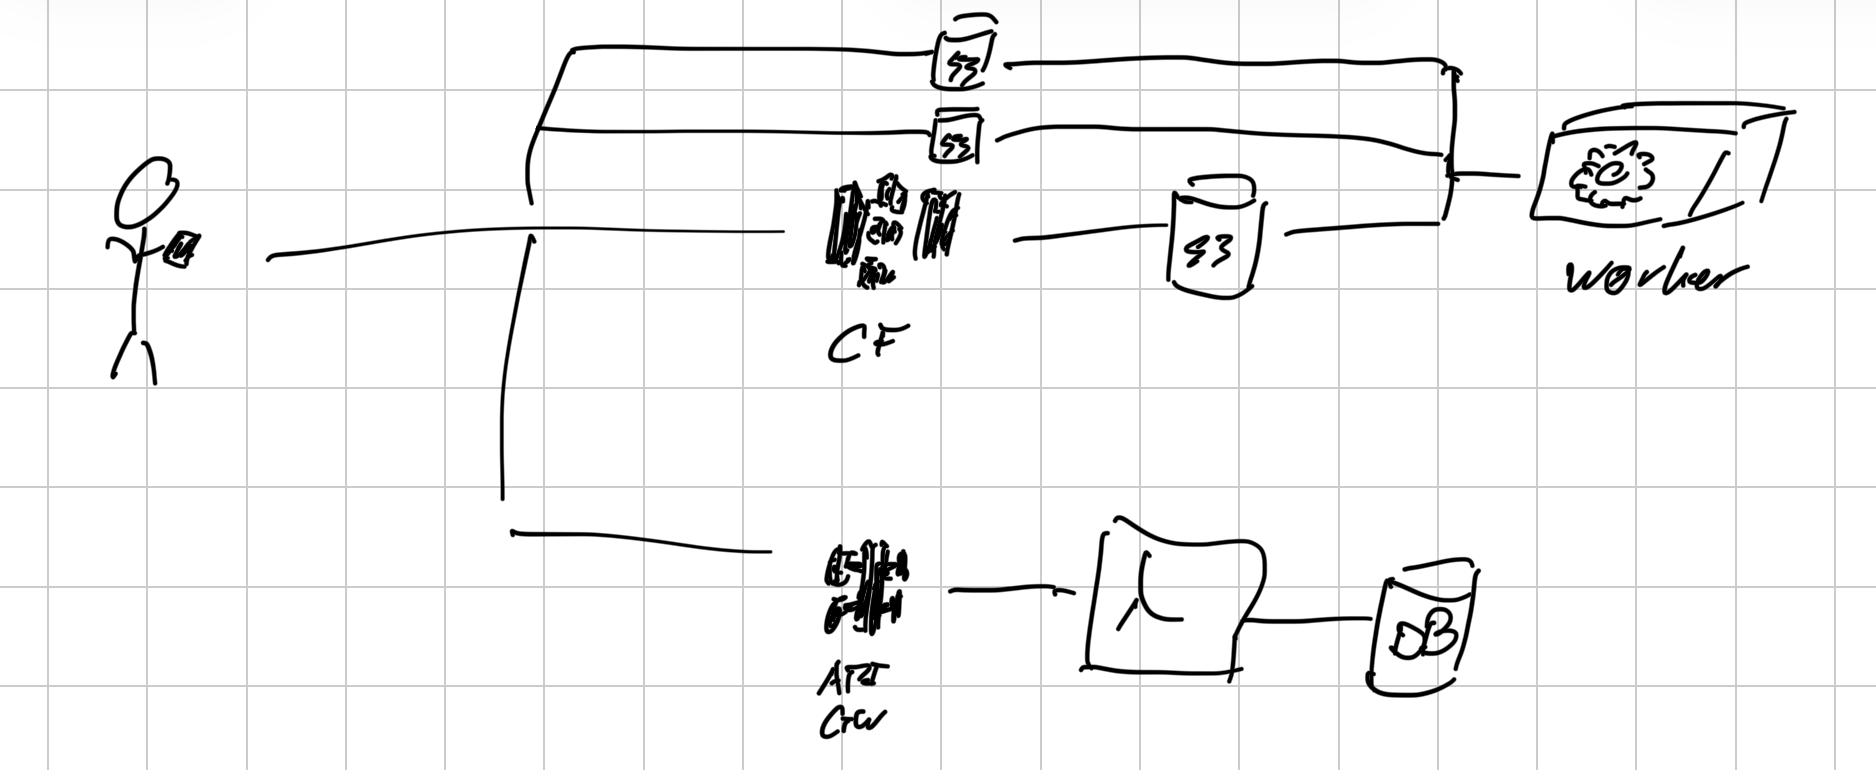
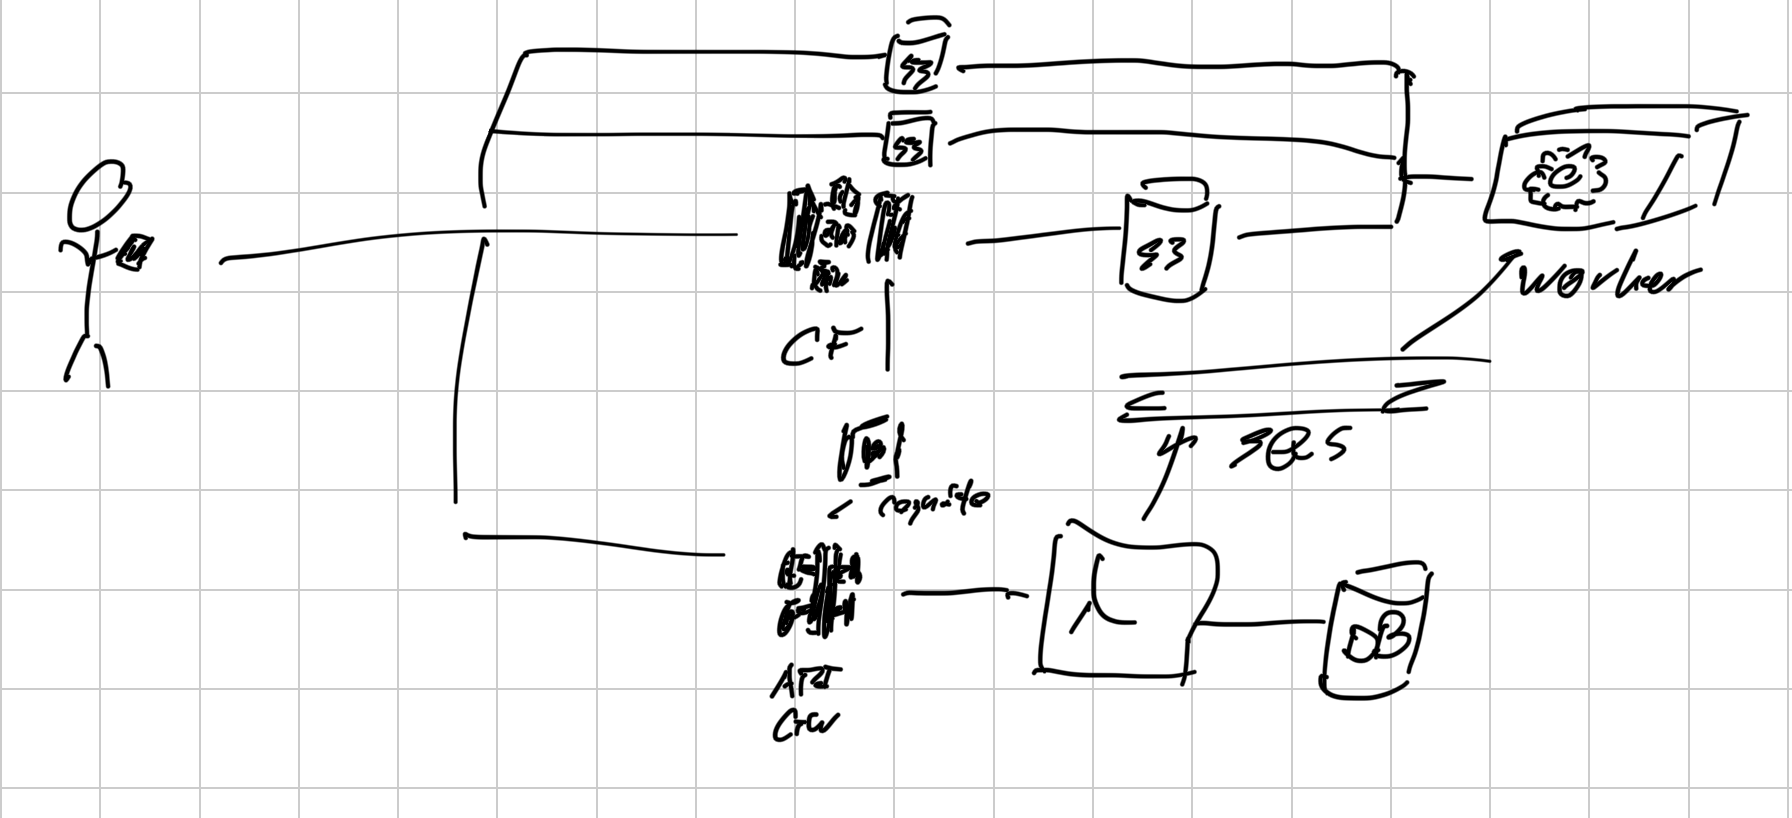
final post

diff --git a/_posts/20260626- lector.md.md b/_posts/20260626- lector.md.md
@@ -1,0 +1,28 @@
+---
+layout: post
+title: 'Developing my new "Lector" app'
+author: 'rlc'
+date: 2026-06-27
+---
+
+I like to read but, sometimes, I don't have time to read everything I'd like and I still want the information I could gain by listening to someone -- or something -- read for me while I'm driving, for example. I had a document like that about a week ago that I wanted to read, but just didn't have time for: it wasn't for work so I couldn't read it there, and I had a rather long drive ahead of me. I'm told reading while driving is even worse than texting, so I decided to abstain from trying that.
+
+Plenty of apps already fill this niche, but most of them require a subscription or try to sell you other stuff. One popular example costs $200/year after a three-day free trial. Other options range from half to double that price. My phone does have a "speak screen" option, but that isn't great either. So, free options are limited and paid options are expensive.
+
+But I still had this text I wanted to read!
+
+This is where I thought: "It is honestly amazing how easy it is to whip up a little app nowadays!"
+
+I gave it maybe thirty seconds of thought before the design popped into my head: I have this little headless computer running Linux sitting on my desk that does odd jobs for me -- who doesn't, right? -- so why not have it run a little Python script that grabs jobs from a queue, runs them through text-to-speech, and puts the audio in an S3 bucket? The rest is just UI and glue!
+
+In case that didn't pop clearly into your head as well, here's a diagram I sketched for this post.
+
+![diagram](/assets/2026/app-lector-diagram.png)
+
+Coding can be a bit of a slog while you're driving, but who needs to code anymore? At the next red light I switched to my phone, opened Claude in speech mode, and explained what I wanted it to write for me. It took me a good 20 km to explain it, have it explain it back to me to make sure it understood, then pull over to put it back in text mode and let it generate the initial draft.
+
+I don't pay for Claude, but the free version did a fine job. I immediately ran out of free tokens, of course, but it had already produced the first draft.
+
+That first draft didn't work -- of course it didn't -- but it had the basic building blocks of what I wanted. The Terraform was OK-ish, the worker script needed work, and the UI was potable, but not quite there yet. It took many hours the next day to get the thing working, and a bit of tinkering on and off to get it to work the way I like.
+
+This will cost me a few cents a month to run on AWS among the other stuff I already have running there, has cost me nothing to develop, and once I've put my usual guardrails in place (BDD and TDD are already there, but I haven't set up Dependabot, CI/CD, Trivy, Checkov, and end-to-end testing yet) it'll cost nothing to maintain afterwards. I might open source it once I'm done putting those guardrails in -- let me know on LinkedIn or Bluesky if I should.